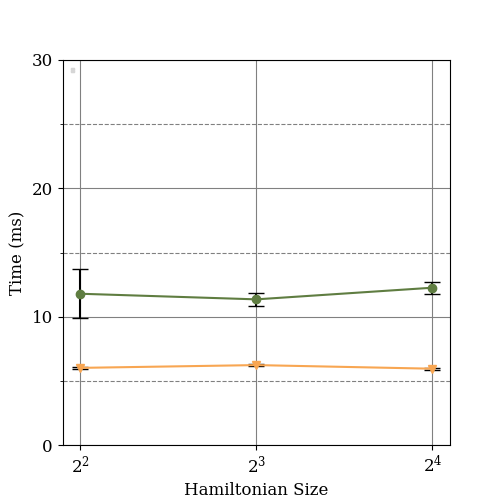
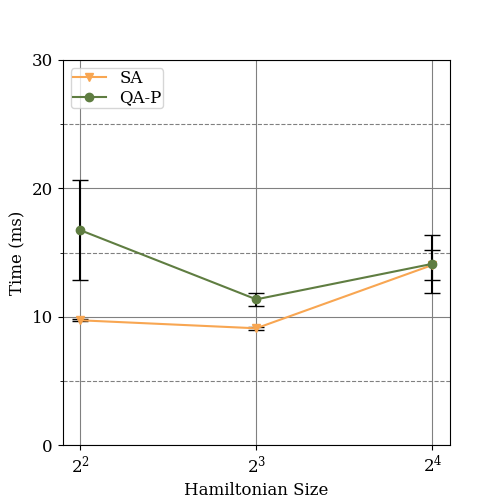
added legends, changed time scaling plot to pick config with best average accuracy

diff --git a/QuantumWalk/RefactoredScalingTests/Plotting/plots.py b/QuantumWalk/RefactoredScalingTests/Plotting/plots.py
@@ -112,8 +112,8 @@ saStd = []
 qaData = []
 qaStd = []
 for size in sizes:
-    saResult = findBestConfig(simulatedDF, size=size, param="time_avg", param2="acc_avg", value=e)
-    qaResult = findBestConfig(quantumDF, size=size, param="time_avg", param2="acc_avg", value=e)
+    saResult = findBestConfig(simulatedDF, size=size, param="acc_avg", param2="acc_avg", value=e)
+    qaResult = findBestConfig(quantumDF, size=size, param="acc_avg", param2="acc_avg", value=e)
     saData.append(saResult["time_avg"])
     saStd.append(saResult["time_std"])
     qaData.append(qaResult["time_avg"])
@@ -123,8 +123,8 @@ fig = plt.figure(figsize = (5, 5))
 ax = fig.add_subplot(1, 1, 1)
 ax.errorbar(x, saData, yerr = saStd, ls='none', capsize=6, color='k') 
 ax.errorbar(x, qaData, yerr = qaStd, ls='none', capsize=6, color='k')
-ax.plot(x, saData, '-v', color='#f8a652', label="SA" if i == trials else "")
-ax.plot(x, qaData, '-o', color='#5f7d41',label="QA-P" if i == trials else "")
+ax.plot(x, saData, '-v', color='#f8a652', label="SA")
+ax.plot(x, qaData, '-o', color='#5f7d41',label="QA-P")
 major_ticks = x
 ymajor_ticks = [0,10,20,30]
 yminor_ticks = [0,5,10,15,20,25,30]
@@ -143,7 +143,7 @@ plt.savefig(path+'time_scaling.pdf')
 
 
 #average absolute error after time t
-t = 20
+t = 30
 #get relevant data for SA and QA for each size hamiltonian
 saData = []
 saStd = []
@@ -162,8 +162,8 @@ ax = fig.add_subplot(1, 1, 1)
 plt.subplots_adjust(left=0.12, right=0.95, top=0.97, bottom=0.12)
 ax.errorbar(x, saData, yerr = saStd, ls='none', capsize=6, color='k') 
 ax.errorbar(x, qaData, yerr = qaStd, ls='none', capsize=6, color='k')
-ax.plot(x, saData, '-v', color='#f8a652', label="SA" if i == trials else "")
-ax.plot(x, qaData, '-o', color='#5f7d41',label="QA-P" if i == trials else "")
+ax.plot(x, saData, '-v', color='#f8a652', label="SA")
+ax.plot(x, qaData, '-o', color='#5f7d41',label="QA-P")
 major_ticks = x
 ymajor_ticks = [0,0.2, 0.4, 0.6, 0.8, 1.0]
 yminor_ticks = [0,0.1,0.2,0.3,0.4,0.5,0.6,0.7,0.8,0.9,1.0]
